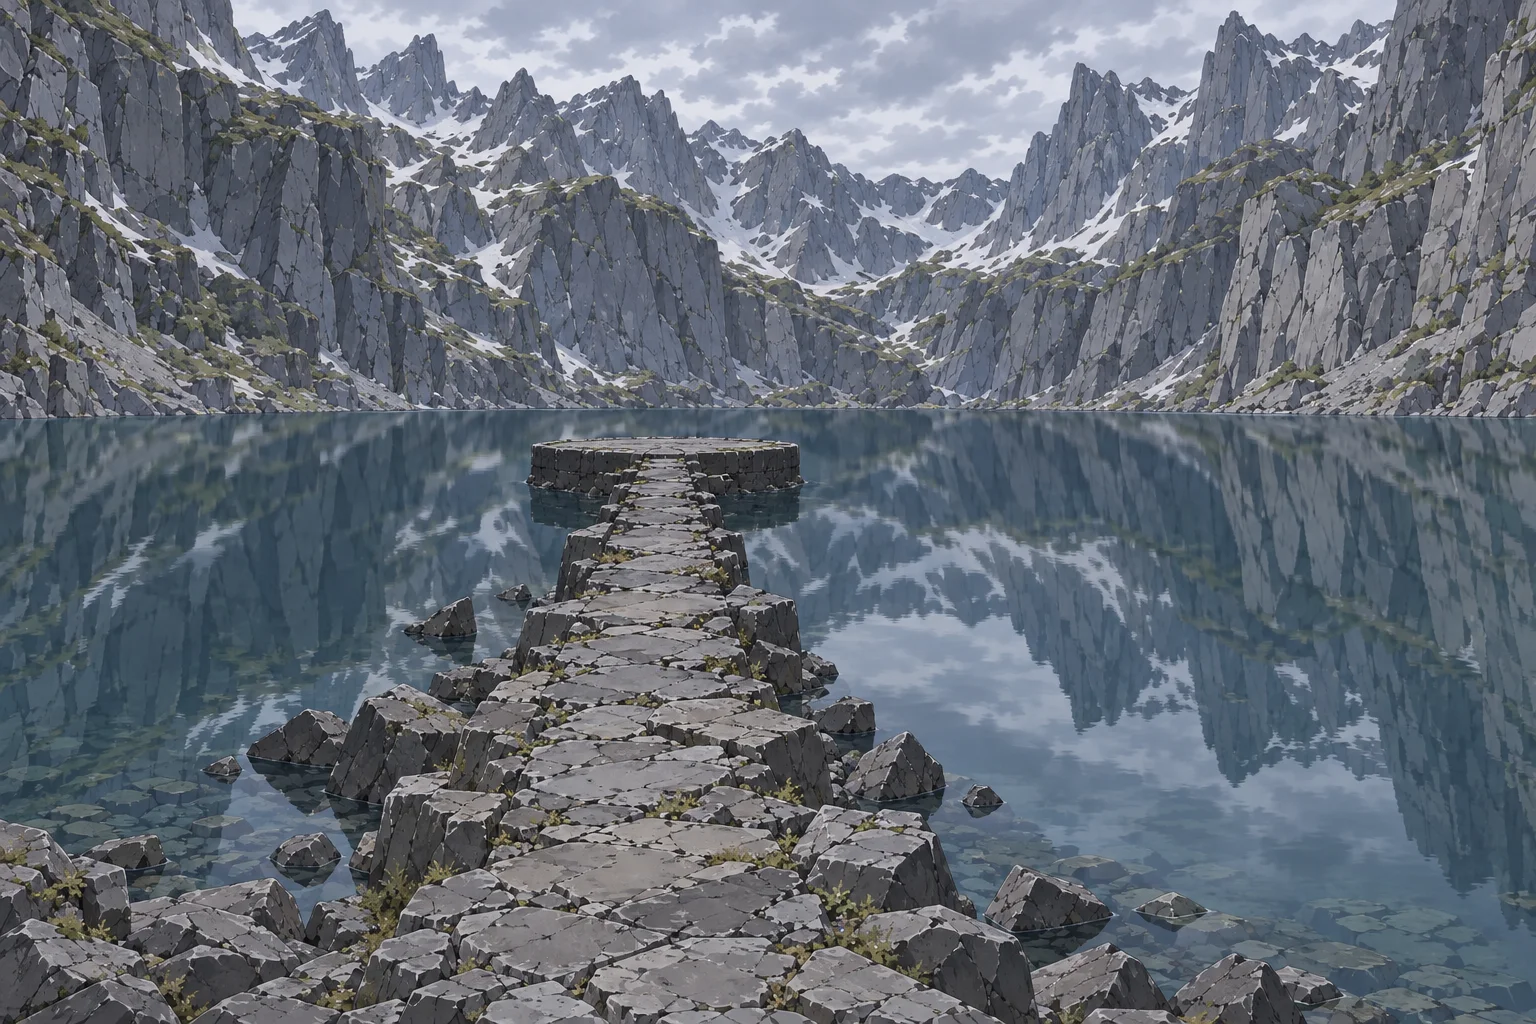
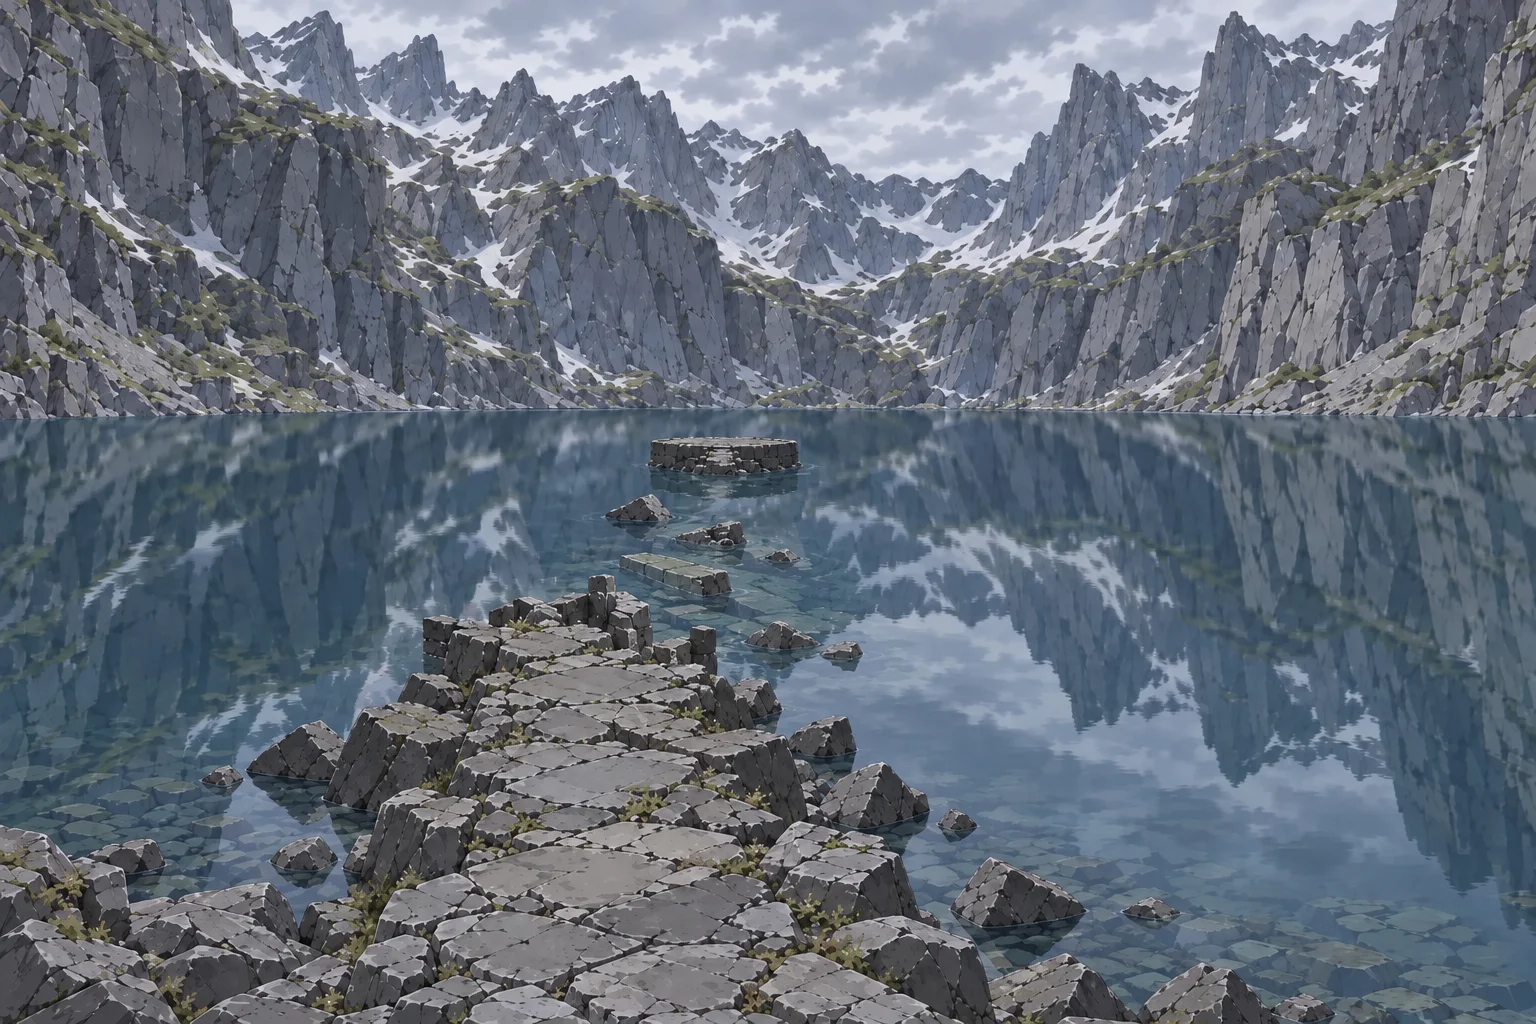
art(鏡湖): 斷堤／碎石灘／北岸重畫（ver -1495）
Ray：「其中一張有條路走到湖心就沒有了，不能用」

⚠⚠⚠ **末端不可以畫成「路走到一半就沒有了」** —— 那讀起來是畫沒畫完，不是終點。
  湖心石堤改成**斷堤**：斷口前的淺水下看得到沉沒的堤石、更遠處浮著一小塊走不到的
  殘台 ⇒ 玩家讀到的是「這條路本來通往某處，但斷了」。舊版已 recycle。
  **日後任何末端格都照這條：給一個「為什麼到此為止」的理由。**

Lake_Shingle_day    三岔：正前方沿岸小徑、左側岳路往上、遠處看得到白瀑布（通往 fallbase）
Lake_Northshore_day 三岔重畫：**船屋放大到佔畫面高度約 1/4**、看得出是一棟建築，
  第一版太小讀不出「右邊有路」（憲法 -890）。⇒ **岔路的目標物要夠大**。

⇒ 10 格交了 5 格，剩 eastshore／fallbase／cave／deadfall／boathouse。

diff --git a/resources/map/_lake_spec.md b/resources/map/_lake_spec.md
@@ -45,7 +45,7 @@
 | `deadfall` 倒木灣 | 1 | `back` | 死路：泡在水裡的枯木堆 |
 | `northshore` 北岸 | 3 | `up→causeway, right→boathouse`（＋back） | 正前方一條石堤伸進湖心、**右側一座半沉的船屋** |
 | `boathouse` 廢船屋 | 1 | `back` | 死路：塌了半邊的木造船屋 |
-| `causeway` 湖心石堤 | 1 | `back` | 末端：窄石堤伸進湖心，兩側都是水 |
+| `causeway` 湖心石堤 | 1 | `back` | 末端：窄石堤伸進湖心 ⚠⚠ **堤是斷的**（Ray ver -1495）—— 斷口前的淺水下看得到沉沒的堤石，更遠處浮著一小塊走不到的殘台 |
 
 ⚠⚠ **瀑布底與水蝕洞不再是死路** —— 它們是通往石碑林的路，
 **畫面上一定要看得出「還有路往上／往裡」**（憲法 §6.5.4.3／-890：一格畫得出幾條路，
@@ -61,9 +61,19 @@
 |---|---|
 | `monolith` 石碑林 | ✔ **已交**（ver -1493，＋ `_glow` 差分） |
 | `inlet` 山口 | ✔ **已交**（ver -1494） |
-| `causeway` 湖心石堤 | ✔ **已交**（ver -1494） |
-| `northshore` 北岸 | ⬜ 第一版**船屋太小**、讀不出「右邊有路」（憲法 -890），重畫中 |
-| `shingle`／`eastshore`／`fallbase`／`cave`／`deadfall`／`boathouse` | ⬜ 還沒畫 |
+| `causeway` 湖心石堤 | ✔ **已交**（ver -1495 重畫成斷堤） |
+| `shingle` 碎石灘 | ✔ **已交**（ver -1495） |
+| `northshore` 北岸 | ✔ **已交**（ver -1495 重畫，船屋放大） |
+| `eastshore`／`fallbase`／`cave`／`deadfall`／`boathouse` | ⬜ 還沒畫（5 格） |
+
+⚠⚠⚠ **「末端」不可以畫成「路走到一半就沒有了」**（Ray ver -1495：「有條路走到湖心
+就沒有了，**不能用**」）—— 那讀起來是**畫沒畫完**，不是「這裡是終點」。
+⇒ 死巷要有**交代**：`causeway` 改成**斷堤**（原本通往某處，但斷了；水下還看得到沉沒的堤石、
+更遠處有走不到的殘台）。**日後任何末端格都照這條**：給玩家一個「為什麼到此為止」的理由。
+
+⚠ 同一批的第二個教訓：`northshore` 第一版**船屋畫太小**，讀不出「右邊有路」——
+成因是提示詞寫了「只是遠景的一小塊、不要佔太多空間」。**岔路的目標物要夠大**
+（實測：佔畫面高度約四分之一、看得出是一棟建築，才讀得出那是一條路）。
 
 ⚠ 這一批的共同規格（每一則提示詞都帶）：被陡峭銀灰山壁圍成**封閉盆地**的高山小湖／
 湖面很靜像鏡子倒映山壁／岸邊黑灰碎石／白天陰天、漫射冷白光、沒有硬影子／
